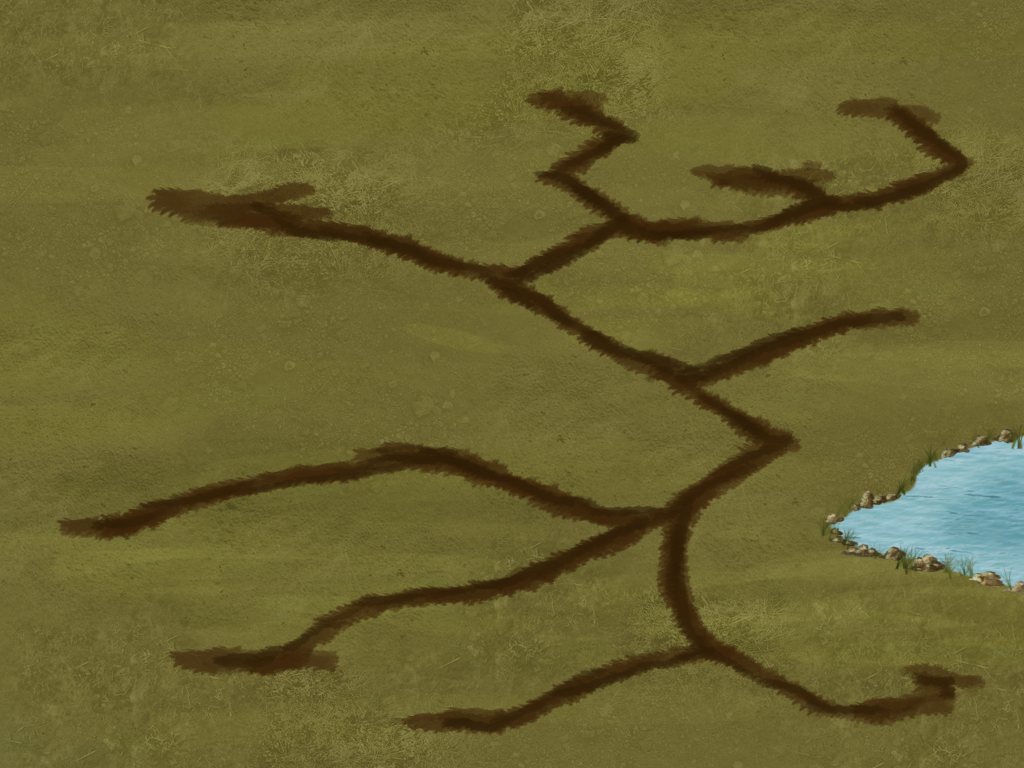
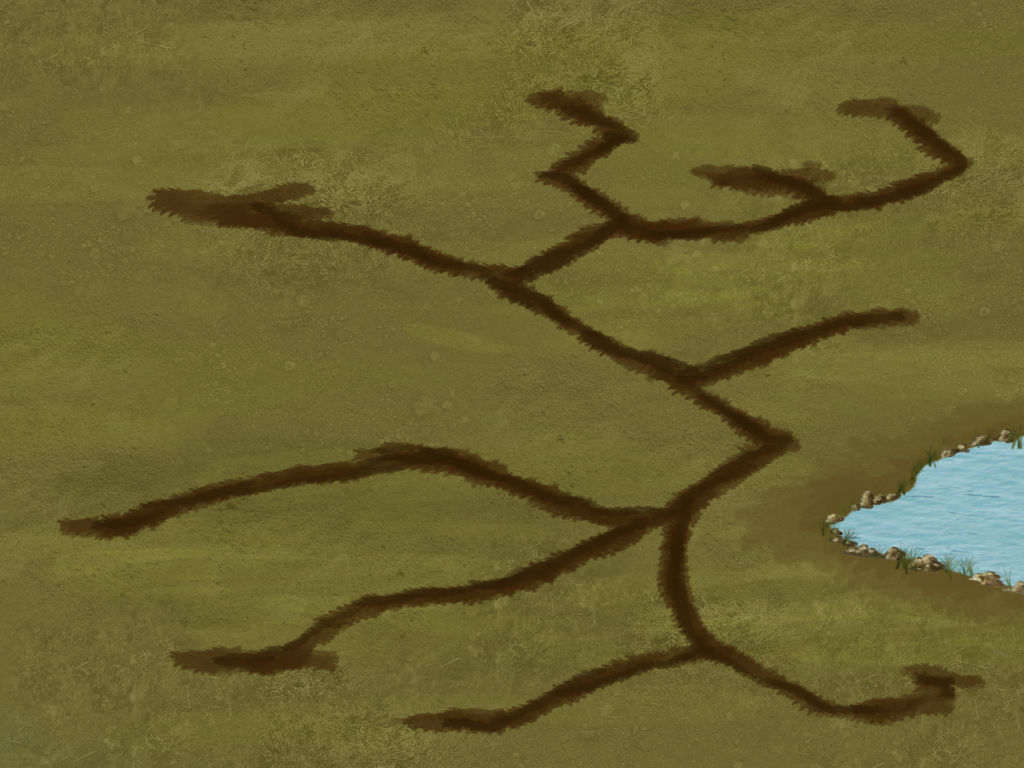
Added new levels and all level backgrounds, made the points AI a bit random

Changed region(s): [[0.8125, 0.7188, 1.0, 0.7812], [0.9062, 0.625, 1.0, 0.7188]]

diff --git a/js/searchtargetstrategy.js b/js/searchtargetstrategy.js
@@ -137,16 +137,8 @@ var SearchPointsTargetStrategy = function() {};
 SearchPointsTargetStrategy.prototype = Object.create(SearchTargetStrategy.prototype);
 SearchPointsTargetStrategy.prototype.search = function(player) 
 {
-	var buildings = Main.levelScreen.getBuildings();
 	
-	var ownBuidling = null; 
-	for (var i = 0; i < buildings.length; i++)
-	{
-		if (buildings[i].owner == player.name) {
-			ownBuidling = buildings[i];
-			break;
-		}
-	}
+	var ownBuidling = player.buildings[0];
 
 	if ( ownBuidling == null ) {
 		return null;
@@ -158,6 +150,7 @@ SearchPointsTargetStrategy.prototype.search = function(player)
 	var maxDefencePower = player.getTotalStrength();
 	var target = null;
 	
+	var buildings = Main.levelScreen.getBuildings();
 	for (var i = 0; i < buildings.length; i++)
 	{
 		var points = 0;
@@ -178,8 +171,11 @@ SearchPointsTargetStrategy.prototype.search = function(player)
                 defencePoints = (1 - (defence / maxDefencePower)) *
                                      AiConfig.factors.defenceFactor;
             }
+
+            var randomPoints = Math.random() * AiConfig.factors.randomFactor;
 			
-			points = buildingPoints + distancePoints + defencePoints;
+			points = buildingPoints + distancePoints + defencePoints +
+                     randomPoints;
 			if (points > maxPoints ) {
 				maxPoints = points;
 				target = buildings[i];

diff --git a/js/ai_config.js b/js/ai_config.js
@@ -26,10 +26,10 @@ AiConfig =
     // only used when using the (default) Points strategy for the AI
     factors:
     {
-	    distanceFactor: 20,
-	    buildingTypeFactor: 30,
-	    defenceFactor:  50,
-        // TODO: add random factor
+	    distanceFactor: 18,
+	    buildingTypeFactor: 28,
+	    defenceFactor:  48,
+        randomFactor: 6,
         // TODO: add player factor
         // TODO: add ability to have different factors for different
         //       difficulties

diff --git a/js/resources.js b/js/resources.js
@@ -41,6 +41,8 @@ resources = [
      src: "data/img/background/bg_level_18.png"},
     {name: "bg_level_21", type: "image",
      src: "data/img/background/bg_level_21.png"},
+    {name: "bg_level_22", type: "image",
+     src: "data/img/background/bg_level_22.png"},
 
 	{name: "bg_menu", type: "image", src: "data/img/background/bg_menu.png"},
 	
